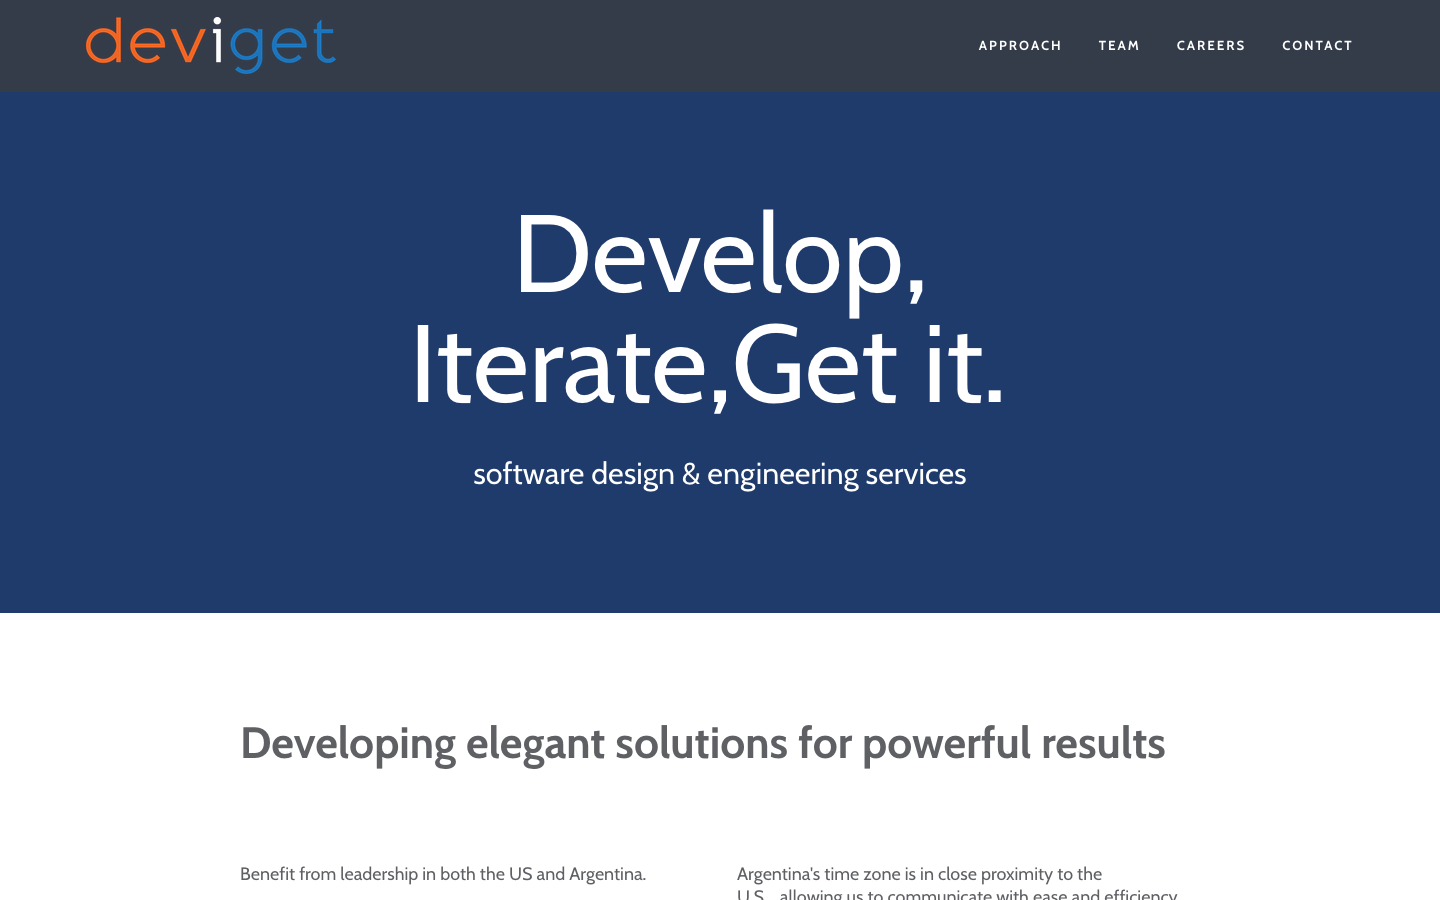
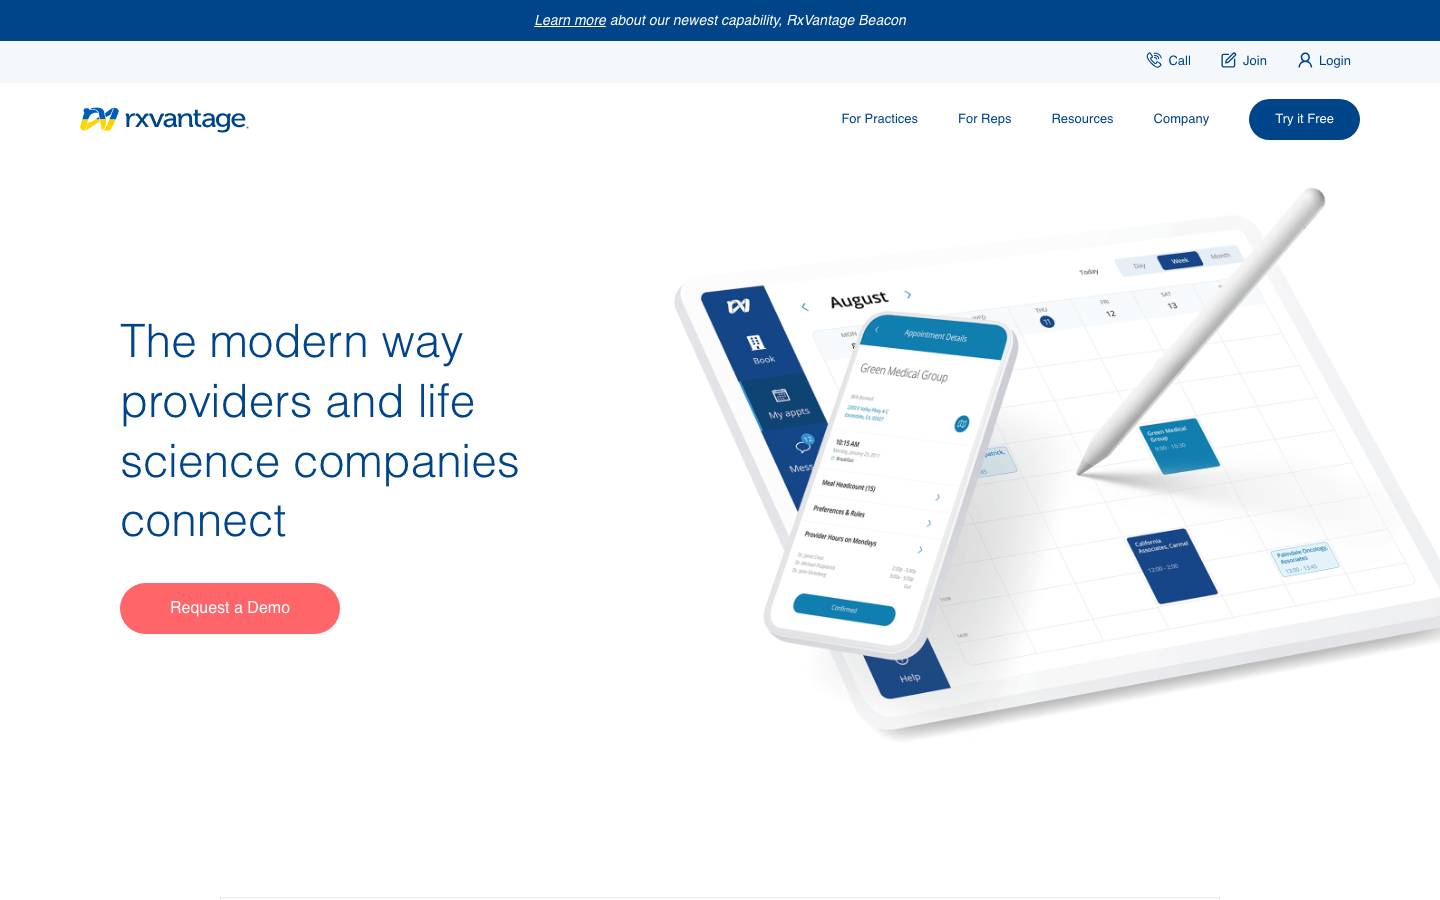
v3: real screenshots for every employer, acquisition notes
Toptal, Thinkful (now Chegg Skills), DigitalOnUs (now Tech Mahindra), Luxoft,
Inflection Point and Desafio Latam showed blank or text-only cards. The capture
script now clicks cookie banners away (reject first), waits for hero images and
retries blank shots. Deviget's card shows RxVantage, the client Sergei worked
for as a contractor through Deviget. No bot checks were bypassed; Toptal loaded
normally this time.

diff --git a/src/content/work/deviget.md b/src/content/work/deviget.md
@@ -2,16 +2,17 @@
 title: "JavaScript Architect"
 company: "Deviget"
 role: "JavaScript Architect"
-summary: "Led front end development and architecture decisions for a healthcare application, wrote GraphQL resolvers and mentored front end engineers."
+summary: "Contractor through Deviget for RxVantage. Led front end development and architecture for a healthcare app, wrote GraphQL resolvers and mentored engineers."
 period: "Feb 2020 to Jan 2021"
 skills: ["Vue", "Nuxt", "Apollo", "GraphQL", "Node.js"]
+clients: ["RxVantage"]
 links: []
 order: 50
 cover: "../../assets/screenshots/companies/deviget.png"
-coverAlt: "Deviget's home page, October 2026"
+coverAlt: "RxVantage's home page, October 2026"
 ---
 
-I led front end development for a healthcare application built with Vue and Nuxt, and made architecture decisions for the front end.
+Through Deviget, I worked as a contractor for RxVantage, a healthcare company whose platform helps medical practices and life science companies manage their visits and relationships. I led front end development for the application, built with Vue and Nuxt, and made architecture decisions for the front end.
 
 - Wrote Node.js GraphQL resolvers.
 - Removed blockers for the team.

diff --git a/src/content/work/thinkful.md b/src/content/work/thinkful.md
@@ -1,14 +1,18 @@
 ---
 title: "Full-Stack Mentor and Course Instructor"
-company: "Thinkful"
+company: "Thinkful (now Chegg Skills)"
 role: "Full-Stack Mentor and Course Instructor"
 summary: "Mentored full-stack students one to one and created practical workshops on web design, JavaScript debugging and browser performance."
 period: "2018 to 2020"
 skills: ["React", "Node.js", "Express", "MongoDB", "Chrome DevTools"]
 links: []
 order: 60
+cover: "../../assets/screenshots/companies/thinkful.png"
+coverAlt: "Chegg Skills's home page, October 2026"
 ---
 
 I mentored students learning full-stack development, including portfolio guidance and interview preparation, and taught the MongoDB, Express, React and Node.js stack.
 
 I also created workshops on web design and UX, HTML and CSS, JavaScript debugging, Chrome DevTools, browser rendering and animation.
+
+Thinkful was later acquired by Chegg and is now Chegg Skills.

diff --git a/src/content/work/digitalonus.md b/src/content/work/digitalonus.md
@@ -1,6 +1,6 @@
 ---
 title: "Senior Software Engineer"
-company: "DigitalOnUs"
+company: "DigitalOnUs (now Tech Mahindra)"
 role: "Senior Software Engineer"
 summary: "Built checkout features with Vue and GraphQL, maintained legacy Ember code and shared practical guidance with the team."
 period: "Feb 2019 to Feb 2020"
@@ -8,8 +8,12 @@ startDate: 2019-02-25
 skills: ["Vue", "Nuxt", "GraphQL", "Node.js", "Ember"]
 links: []
 order: 70
+cover: "../../assets/screenshots/companies/digitalonus.png"
+coverAlt: "Tech Mahindra's home page, October 2026"
 ---
 
 I built checkout features with Vue, Vuex and Nuxt, and worked on the GraphQL layer with Apollo, Express and Node.js, including resolvers. I also maintained an older Ember application.
 
 I ran technical workshops and mentored teammates on Vue and GraphQL.
+
+DigitalOnUs was later acquired by Tech Mahindra.

diff --git a/src/content/work/desafio-latam.md b/src/content/work/desafio-latam.md
@@ -7,6 +7,8 @@ period: "2017"
 skills: ["HTML", "CSS", "JavaScript", "Bootstrap", "jQuery"]
 links: []
 order: 90
+cover: "../../assets/screenshots/companies/desafio-latam.png"
+coverAlt: "Desafio Latam's home page, October 2026"
 ---
 
 I taught front end development to bootcamp students and prepared practical materials and projects. Topics included HTML, CSS, responsive layouts, Bootstrap, JavaScript, jQuery, DOM events and Ajax.

diff --git a/src/content/work/inflection-point.md b/src/content/work/inflection-point.md
@@ -8,6 +8,8 @@ startDate: 2016-05-02
 skills: []
 links: []
 order: 100
+cover: "../../assets/screenshots/companies/inflection-point.png"
+coverAlt: "Inflection Point Systems's home page, October 2026"
 ---
 
 I improved the front end of a company website and an educational platform, working on rendering, build tooling, bundling and testing. I also proposed ways to make internal technical courses easier to take.

diff --git a/src/content/work/luxoft.md b/src/content/work/luxoft.md
@@ -7,6 +7,8 @@ period: "2017 to 2019"
 skills: ["React", "Redux", "Node.js", "GraphQL", "Jest"]
 links: []
 order: 80
+cover: "../../assets/screenshots/companies/luxoft.png"
+coverAlt: "Luxoft's home page, October 2026"
 ---
 
 I worked on a legacy booking flow and built features with React, Redux, Node.js and Express. I also wrote browser automation with Selenium and Puppeteer.

diff --git a/src/content/work/toptal.md b/src/content/work/toptal.md
@@ -8,6 +8,8 @@ skills: ["Vue", "Nuxt", "React", "Next.js", "Tailwind"]
 clients: ["St. Jude Children's Research Hospital", "Northeastern University", "Marmalade", "AquascapeAI"]
 links: []
 order: 20
+cover: "../../assets/screenshots/companies/toptal.png"
+coverAlt: "Toptal's home page, October 2026"
 ---
 
 Through Toptal I built front ends for four clients.
